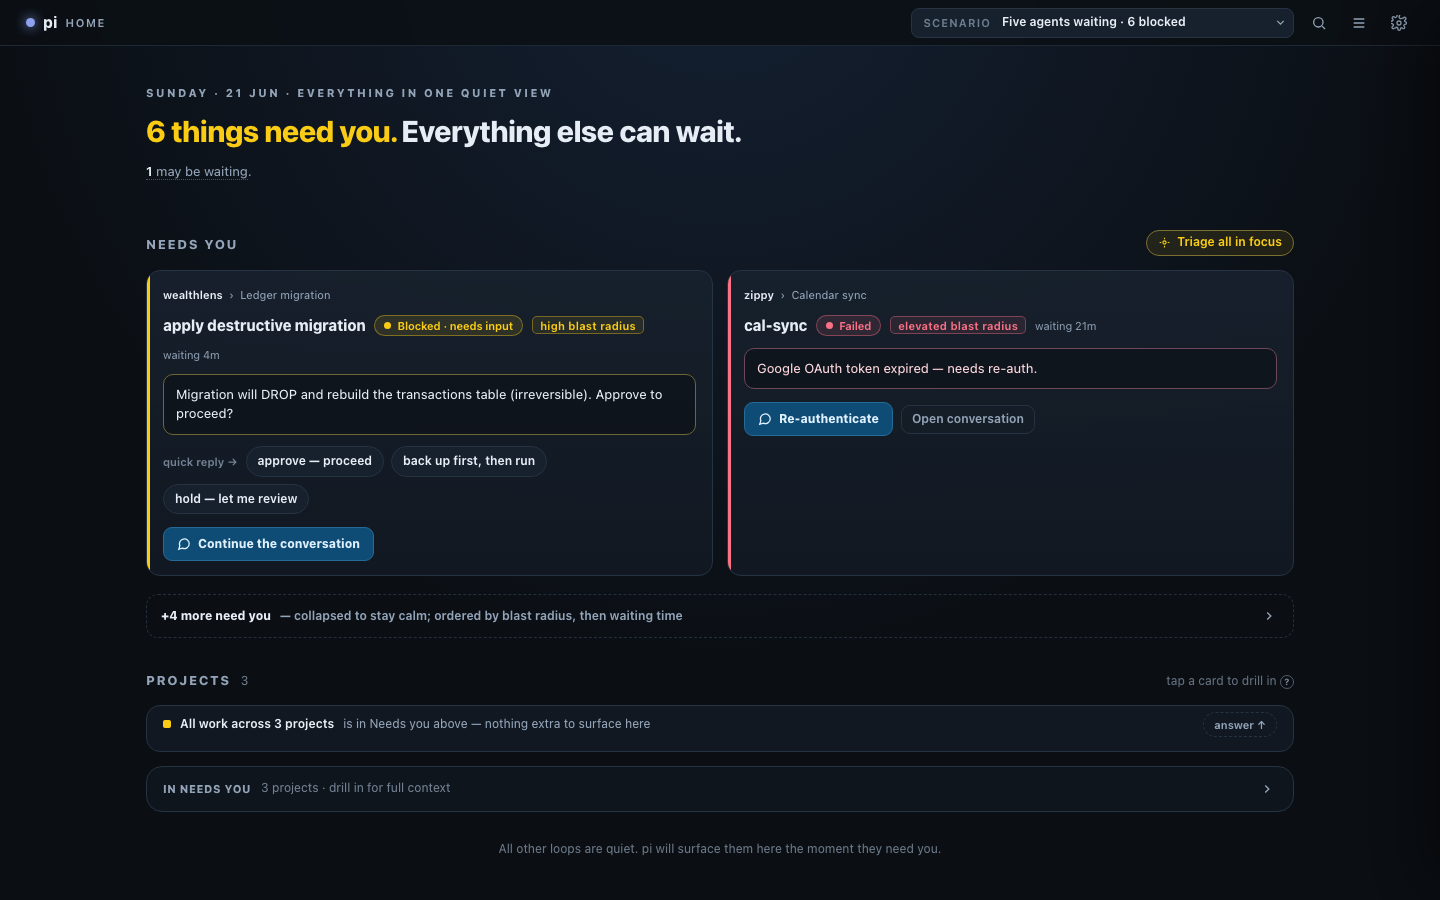
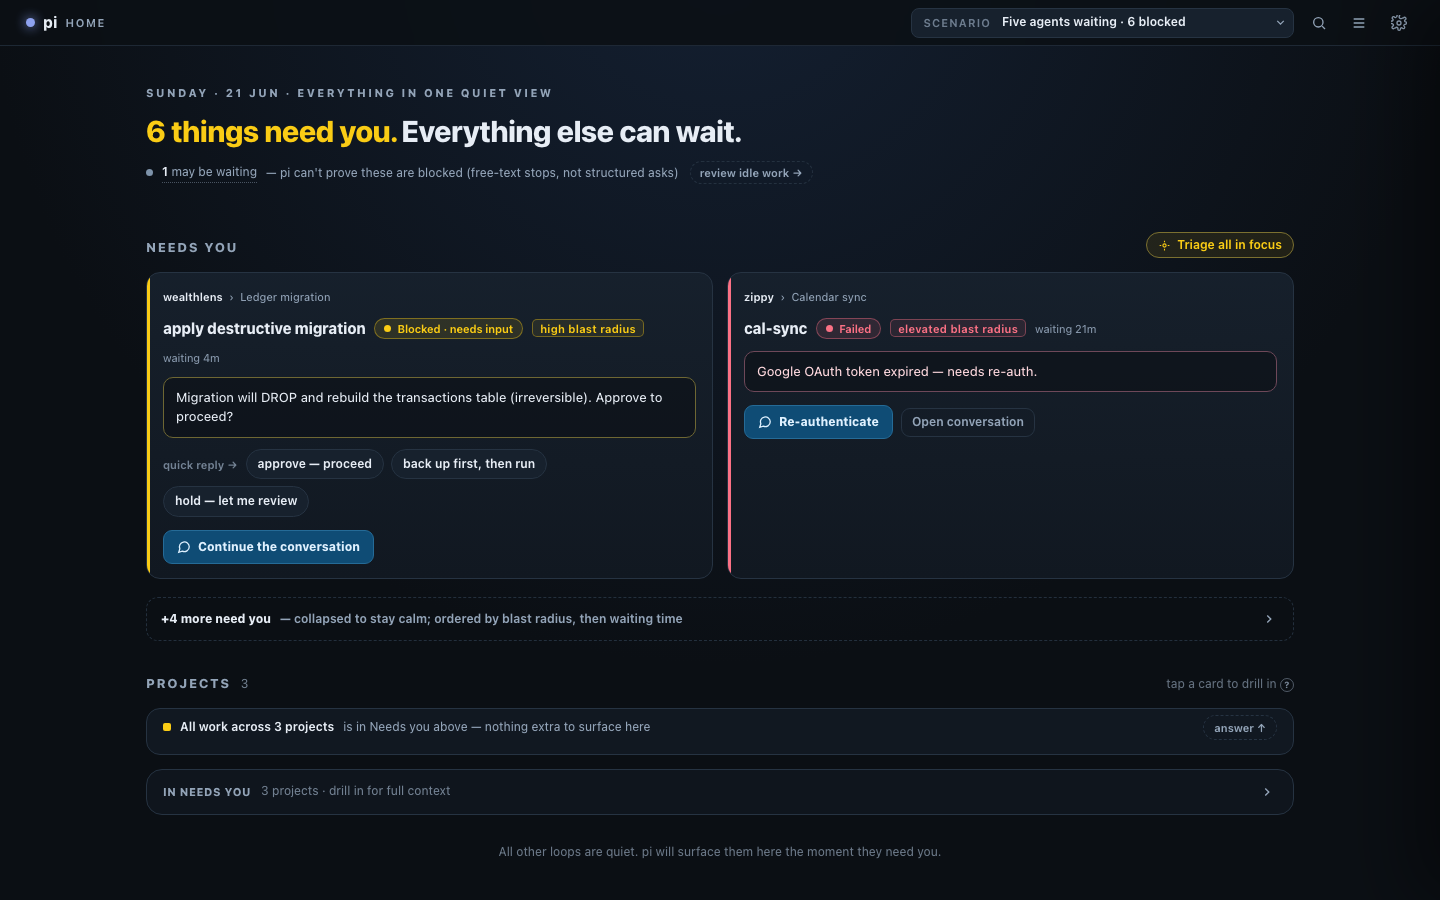
docs: adversarial review verdict

diff --git a/docs/dashboard-designs-final/CONVERGENCE-RUN.md b/docs/dashboard-designs-final/CONVERGENCE-RUN.md
@@ -186,3 +186,110 @@ are all severity-low and explicitly fixture-only or future-production-port notes
 text-parse fallback marked "must never ship", the `srcFamily`/`sessFamily` substring heuristic, the
 proposed-band placeholder numbers, and a possible nudge affordance for the idle bucket); each is
 already disclosed with a guard comment and none gate FINAL.
+
+---
+
+## Adversarial review (red team vs. defender, judged)
+
+The convergence run above grades the design with friendly lenses. To stress it harder, the
+artifact then went through four rounds of adversarial review on the `dashboard-design` branch,
+each round structured as a debate rather than a single critique:
+
+1. **Four red-team angles attacked.** Each round, four independent adversarial lenses tried to
+   break the design — a feasibility/honesty angle (does a "grounded" element actually trace to a
+   real signal in `DATA-MODEL-AND-API.md`?), a calm/IA angle (does the design keep one voice and
+   one count?), a scale/chaos angle (what happens at 50+ projects, all-blocked, multi-day loops?),
+   and a concept-maturity angle (how much value depends on primitives that do not exist yet?).
+   Each angle filed charges with a claimed severity.
+2. **A defender rebutted with on-disk evidence.** Every charge was answered by reading the actual
+   committed `index.html` and the spec, not the lens's paraphrase of it — citing line numbers,
+   call sites, and the data model.
+3. **A neutral judge ruled each charge.** The judge re-verified both sides against disk by
+   grep/sed and marked each charge **upheld** (high or med), **overruled**, or **partial**. A round
+   converged only if integrity passed and no charge was upheld above low severity.
+
+### Per-round results
+
+| Round | Commit    | Charges | Upheld high | Upheld med | Overruled | Integrity | Converged |
+| ----- | --------- | ------- | ----------- | ---------- | --------- | --------- | --------- |
+| 1     | (pre-fix) | 20      | 0           | 6          | 3         | pass      | no        |
+| 2     | `841b2dc` | 20      | 2           | 2          | 3         | pass      | no        |
+| 3     | `554e3df` | 21      | 1           | 6          | 5         | pass      | no        |
+| 4     | `b0709e2` | 22      | 1           | 2          | 5         | pass      | no        |
+
+Integrity passed every round (JS parses clean, all 10 scenarios render, zero console errors), so
+the design was never structurally broken. It also never converged: each round surfaced at least one
+real high- or medium-severity issue, the team fixed it, and the next round found the next one. The
+high-severity count fell from 2 to 1 and stabilized at a single cold-start regression.
+
+### Most notable upheld issues, and the fixes
+
+- **Round 2 — loop-elapsed honesty contradicted its own annotations (HIGH).** The design's loudest
+  honesty claim was false: code comments asserted the ungrounded `meta`/`loopTime` text-parse
+  fallback had been deleted "so the demo can never silently render the banned path," but it was live
+  at three of four call sites (workstream badge, session row, drawer). Only the hero used the
+  grounded `loopMinutes`. Fixed by routing every loop badge through `loopMinutes` → `fmtMin`.
+- **Round 2 — `attn` projects were uncapped (HIGH).** Every other list (active, dormant, sign-off,
+  workstreams) capped into an overflow row; `full = attn.concat(...)` was never sliced and there was
+  no virtualization, so an all-blocked fleet painted the instrument-panel wall that locked invariant
+  #6 forbids "at ANY scale." Fixed by capping `attn` into an overflow row like `active`.
+- **Round 3 — `dotStrip()` was the one uncapped list renderer (HIGH).** It sat on the collapsed card
+  face, so a 40–60 workstream project painted an unbounded dot wall. Fixed with a slice plus a
+  `+N` tail, matching the cap pattern used everywhere else.
+- **Round 3 — fabricated git numstat on a `spark` artifact (MED).** A `spark` kind was not in the
+  artifact union, so `artChip` fell through and drew an invented `+88/−402` numstat on a manual PNG
+  snapshot. Fixed by handling the kind explicitly so the collapsed face stops mislabeling it.
+- **Round 4 — open-ended ring shown without an actual loop (HIGH).** `allOpenEnded = g.total===0`
+  (`index.html:2305`) never checks for a real loop, so a project whose workstreams all lack a DoD —
+  the common cold-start path after `registerProject` — rendered a cyan ∞ "looping · open-ended"
+  ring, a grounding lie in the one reserved status color (invariant #2). One-line fix: gate on
+  `loopWs>0`. (This is the open finding at HEAD `b0709e2`; the gate `loopWs` exists at line 2322 but
+  is not yet wired into `allOpenEnded`.)
+- **Round 4 — `fmtMin` had no day rollover and `byAttention` had no tiebreaker (MED, MED).** A
+  three-day loop rendered as "72h" — the sole grounded loop signal made least legible exactly when a
+  runaway loop matters most — and `byAttention` (line 862) sorted without an id tiebreaker, so the
+  six-item fold collapsed to non-deterministic insertion order. `renderNeeds` (line 1976) already
+  carries the exact `localeCompare` stable-sort fix with a comment explaining the failure mode, so
+  both are one-line ports of a pattern the team already uses.
+
+The earlier-round medium issues — name-overflow clamp asymmetry, per-session vs. per-root
+`git_clean` scoping, carrying quick-reply chips into overflow rows, and the git-criteria staleness
+asterisk — were all real and all fixed by the same disciplined pattern reuse.
+
+### Most notable overruled charges (where the adversary was wrong)
+
+The debate did not just capitulate to the red team. The judge overruled the loudest charges in
+every round after checking them against disk:
+
+- **"No stored idle timestamp" (R1, overruled).** The spec grounds idle duration as "N min since
+  `agent_end`" with a durable `SessionInfo.modified` field; the premise was factually wrong.
+- **"Two heroes break calm" (R2, overruled).** One `<h1>` owns the only count and the band header
+  explicitly carries none — the charge conflated a band header with a second hero.
+- **"Needs-you count includes unproven stops" (R2, overruled).** Non-elicited stops are honestly
+  excluded via `c.softwait`; the grounding rule was working, not vaporware.
+- **"Rings run `executeBash` on render" (R3, overruled).** `critUnrun` already excludes unrun
+  command criteria; the rings display a cached `evaluatedAt`, they do not execute on paint.
+- **"`git_merged` is ungrounded at scale" (R4, overruled).** `gitLog()` carries `%ad` (date) and
+  `%H`/`%h` (sha) on every commit (`server.ts:427`), so `mergedAt` and the merged sha are derivable;
+  a met `git_merged` is permanent, so the TTL-staleness dilemma the charge posed does not exist.
+- **"The plan queue is vaporware" (R4, overruled).** `plannedQueue` is a spec-typed
+  feasibly-proposed field rendered with the prescribed "~N more planned" hedge.
+
+A recurring adversary failure mode was equating a grounded primitive with an ungrounded one:
+displaying a cached `evaluatedAt` is not running a command on render; a local merge-base proxy is
+not a remote PR/CI check; declining to fabricate a stall verdict is the grounding rule working, not
+hiding a fact. The judge narrowed those to their real, bounded kernels rather than accepting the
+headline severity.
+
+### Final verdict
+
+The design survived adversarial scrutiny, wounded but honest. Across four rounds it never failed
+integrity and never lost its core honesty and calm invariants; the red team landed six genuine
+high-severity hits over the run, every one a concrete, mechanical fix (a missing cap, a mis-routed
+helper, an ungrounded ring), and the friendly review had missed all of them. As of HEAD `b0709e2`
+one high-severity cold-start regression (the `allOpenEnded` ring) and two trivial one-line chaos
+fixes (`fmtMin` day rollover, `byAttention` tiebreaker) remain open — so the artifact is not yet
+converged, but the gap between it and convergence is three known, scoped edits rather than any
+structural or conceptual flaw. The honesty discipline held where the design claimed it: the only
+place the code contradicted its own honesty annotations (the round-2 loop-elapsed surface) was
+caught and fixed.
